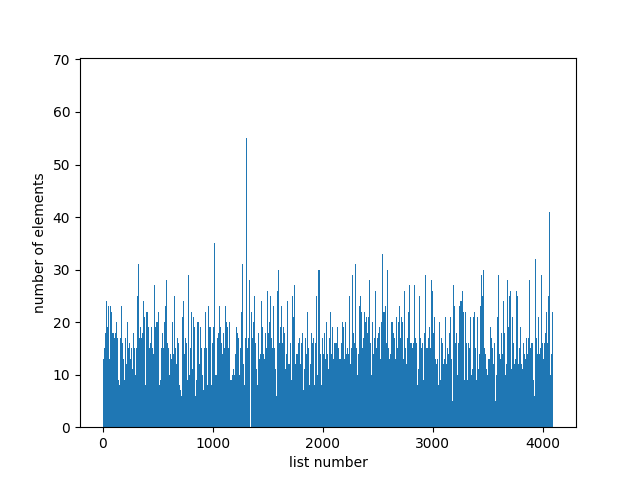
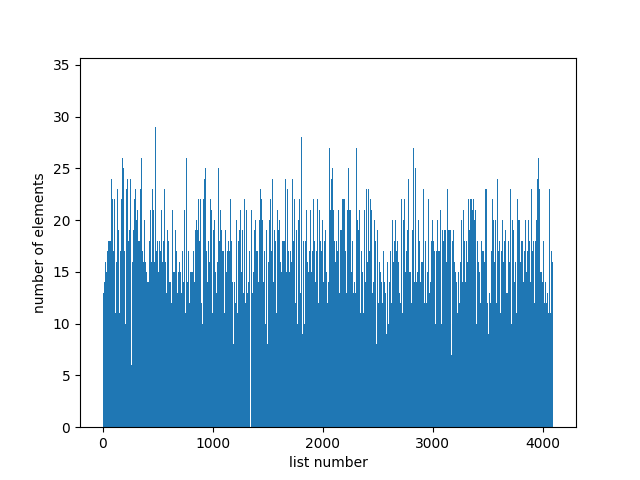
wokr

diff --git a/src/hash/hash_func.cpp b/src/hash/hash_func.cpp
@@ -128,28 +128,28 @@ static const uint32_t crc_lookup_table[256] =
 
 uint32_t crc32_hash(void* data, unsigned int size)
 {
-//    uint32_t crc = 0xffffffff;
-//    unsigned char* str = (unsigned char*)data;
+   uint32_t crc = 0xffffffff;
+   unsigned char* str = (unsigned char*)data;
 
-// 	while (size-- !=0) 
-//     {
-//         crc = crc_lookup_table[((uint8_t) crc ^ *(str++))] ^ (crc >> 8);
-//     }
-//     return ~crc;
-
-
-    for (size_t i = 0; i < (size / sizeof(uint32_t)); ++i) 
+	while (size-- !=0) 
     {
-		hash = _mm_crc32_u32(hash, *(const uint32_t*)str);
-		str += sizeof(uint32_t);
-	}
+        crc = crc_lookup_table[((uint8_t) crc ^ *(str++))] ^ (crc >> 8);
+    }
+    return ~crc;
 
-	if (size & sizeof(uint16_t)) {
-		hash = _mm_crc32_u16(hash, *(const uint16_t*)str);
-		str += sizeof(uint16_t);
-	}
 
-	if (size & sizeof(uint8_t)) {
-		hash = _mm_crc32_u8(hash, *(const uint8_t*)str);
+//     for (size_t i = 0; i < (size / sizeof(uint32_t)); ++i) 
+//     {
+// 		hash = _mm_crc32_u32(hash, *(const uint32_t*)str);
+// 		str += sizeof(uint32_t);
+// 	}
+
+// 	if (size & sizeof(uint16_t)) {
+// 		hash = _mm_crc32_u16(hash, *(const uint16_t*)str);
+// 		str += sizeof(uint16_t);
+// 	}
+
+// 	if (size & sizeof(uint8_t)) {
+// 		hash = _mm_crc32_u8(hash, *(const uint8_t*)str);
 	
 }
